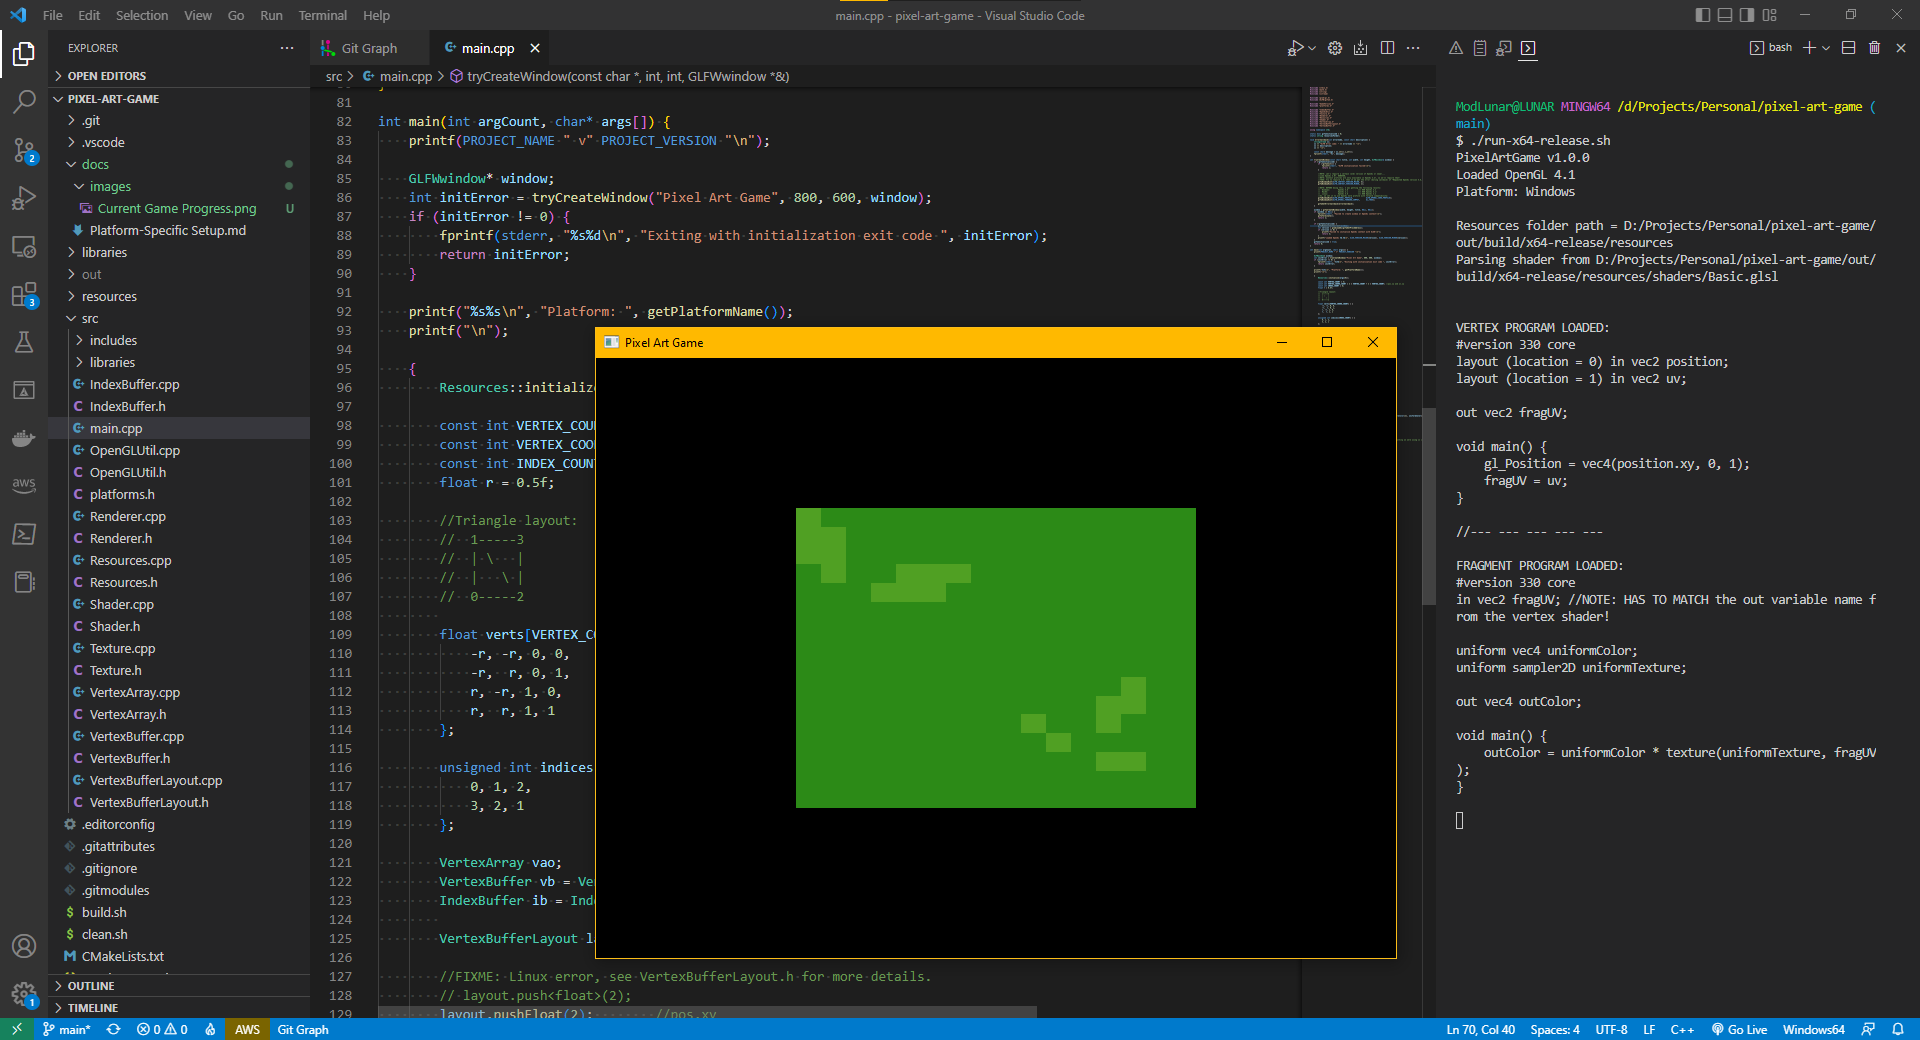
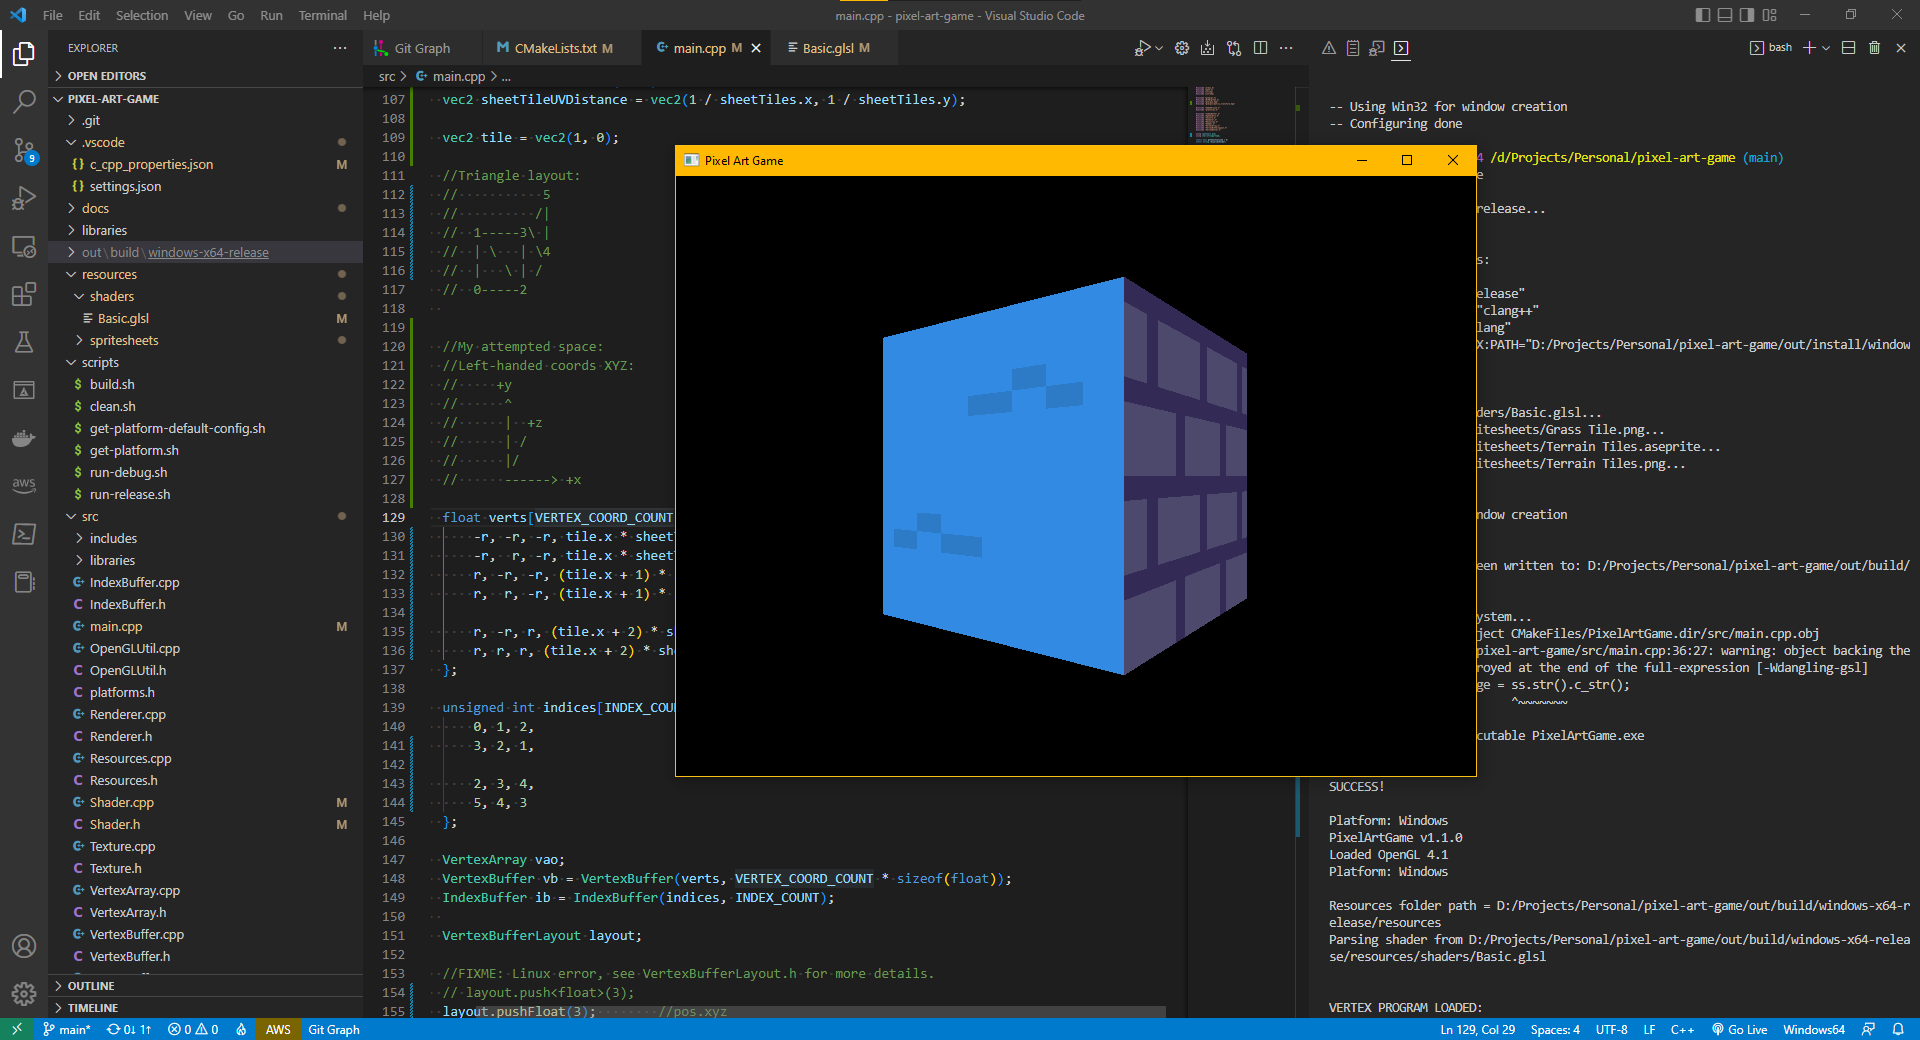
Massive improvements in trying to understand coordinate spaces

diff --git a/src/main.cpp b/src/main.cpp
@@ -5,6 +5,8 @@
 
 #include <glad/gl.h>
 #include <GLFW/glfw3.h>
+#include "glm/glm.hpp"
+#include "glm/gtc/matrix_transform.hpp"
 
 #include "GameVersion.h"
 #include "platforms.h"
@@ -19,7 +21,8 @@
 #include "VertexBufferLayout.h"
 #include "VertexBuffer.h"
 
-using namespace std;
+using namespace glm;
+using std::stringstream;
 
 static bool glfwInitialized = 0;
 static string resourcesFolder;
@@ -95,27 +98,50 @@ int main(int argCount, char* args[]) {
     {
         Resources::initialize(args[0]);
 
-        const int VERTEX_COUNT = 4;
-        const int VERTEX_COORD_COUNT = 2 * VERTEX_COUNT + 2 * VERTEX_COUNT; //pos.xy and uv.xy
-        const int INDEX_COUNT = 6;
+        const int VERTEX_COUNT = 6;
+        const int VERTEX_COORD_COUNT = 3 * VERTEX_COUNT + 2 * VERTEX_COUNT; //pos.xyz and uv.xy
+        const int INDEX_COUNT = 12;
         float r = 0.5f;
 
+        vec2 sheetTiles = vec2(8, 8);
+        vec2 sheetTileUVDistance = vec2(1 / sheetTiles.x, 1 / sheetTiles.y);
+
+        vec2 tile = vec2(1, 0);
+
         //Triangle layout:
-        //  1-----3
-        //  | \   |
-        //  |   \ |
+        //           5
+        //          /|
+        //  1-----3\ |
+        //  | \   | \4
+        //  |   \ | /
         //  0-----2
         
+
+        //My attempted space:
+        //Left-handed coords XYZ:
+        //     +y
+        //      ^
+        //      |  +z
+        //      | /
+        //      |/
+        //      ------> +x
+
         float verts[VERTEX_COORD_COUNT] = {
-            -r, -r, 0, 0,
-            -r,  r, 0, 1,
-            r, -r, 1, 0,
-            r,  r, 1, 1
+            -r, -r, -r, tile.x * sheetTileUVDistance.x, 1 - ((tile.y + 1) * sheetTileUVDistance.y),
+            -r,  r, -r, tile.x * sheetTileUVDistance.x, 1 - (tile.y * sheetTileUVDistance.y),
+            r, -r, -r, (tile.x + 1) * sheetTileUVDistance.x, 1 - ((tile.y + 1) * sheetTileUVDistance.y),
+            r,  r, -r, (tile.x + 1) * sheetTileUVDistance.x, 1 - (tile.y * sheetTileUVDistance.y),
+
+            r, -r, r, (tile.x + 2) * sheetTileUVDistance.x, 1 - ((tile.y + 1) * sheetTileUVDistance.y),
+            r, r, r, (tile.x + 2) * sheetTileUVDistance.x, 1 - (tile.y * sheetTileUVDistance.y)
         };
 
         unsigned int indices[INDEX_COUNT] = {
             0, 1, 2,
-            3, 2, 1
+            3, 2, 1,
+
+            2, 3, 4,
+            5, 4, 3
         };
 
         VertexArray vao;
@@ -125,18 +151,19 @@ int main(int argCount, char* args[]) {
         VertexBufferLayout layout;
 
         //FIXME: Linux error, see VertexBufferLayout.h for more details.
-        // layout.push<float>(2);
-        layout.pushFloat(2);        //pos.xy
-        layout.pushFloat(2);        //ux.xy
+        // layout.push<float>(3);
+        layout.pushFloat(3);        //pos.xyz
+        layout.pushFloat(2);        //uv.xy
 
         vao.addBuffer(vb, layout);
 
         Shader shader = Shader("resources/shaders/Basic.glsl");
-        Texture tex = Texture("resources/spritesheets/Grass Tile.png");
+        Texture tex = Texture("resources/spritesheets/Terrain Tiles.png");
 
         shader.bind();
         tex.bind(); //NOTE: Slot 0
         shader.setUniform1i("uniformTexture", 0); //NOTE: Corresponds to slot 0
+        shader.setUniform4f("uniformColor", 1, 1, 1, 1);
 
         //NOTE: VSYNC ON! Huge performance benefits..
         glfwSwapInterval(1);
@@ -153,16 +180,98 @@ int main(int argCount, char* args[]) {
         GLCall(glEnable(GL_BLEND));
         GLCall(glBlendFunc(GL_SRC_ALPHA, GL_ONE_MINUS_SRC_ALPHA));
 
-        float uniformColor[4] = { 0, 0, 1, 1 };
-        double prevTime = glfwGetTime();
-        while (!glfwWindowShouldClose(window)) {
-            double time = glfwGetTime();
-            double dt = time - prevTime;
+        GLCall(glEnable(GL_CULL_FACE));
+        GLCall(glCullFace(GL_BACK));
+        GLCall(glFrontFace(GL_CW));
 
-            uniformColor[0] = 0.5f * cos(time) + 0.5f;
-            uniformColor[1] = 0.5f * sin(time) + 0.5f;
+        int windowWidth;
+        int windowHeight;
+
+        enum class MovementMode {
+            Sprite = 0,
+            Camera = 1
+        };
+        MovementMode moveTarget = MovementMode::Sprite;
+        float timeLastSwitched = 0;
+        vec3 modelPosition = vec3(0, 0, 2);
+        vec3 cameraPosition = vec3(0);
+
+        float prevTime = glfwGetTime();
+        while (!glfwWindowShouldClose(window)) {
+            glfwGetWindowSize(window, &windowWidth, &windowHeight);
+
+            float time = glfwGetTime();
+            float dt = time - prevTime;
+
             shader.bind();
-            shader.setUniform4f("uniformColor", uniformColor[0], uniformColor[1], uniformColor[2], uniformColor[3]);
+
+
+            vec3 input = vec3(0);
+            if (glfwGetKey(window, GLFW_KEY_A) == GLFW_PRESS)
+                input.x--;
+            if (glfwGetKey(window, GLFW_KEY_D) == GLFW_PRESS)
+                input.x++;
+                
+            if (glfwGetKey(window, GLFW_KEY_S) == GLFW_PRESS)
+                input.y--;
+            if (glfwGetKey(window, GLFW_KEY_W) == GLFW_PRESS)
+                input.y++;
+
+            if (glfwGetKey(window, GLFW_KEY_Z) == GLFW_PRESS)
+                input.z--;
+            if (glfwGetKey(window, GLFW_KEY_X) == GLFW_PRESS)
+                input.z++;
+
+            if (glfwGetKey(window, GLFW_KEY_0) && time - timeLastSwitched > 1) {
+                moveTarget = (MovementMode) ((int) moveTarget + 1);
+                if ((int) moveTarget > 1)
+                    moveTarget = (MovementMode) 0;
+                timeLastSwitched = time;
+                printf("moveTarget = %d\n", moveTarget);
+            }
+
+            vec3 deltaPosition = r * 10 * dt * input;
+            switch (moveTarget) {
+                case MovementMode::Sprite:
+                    modelPosition += deltaPosition;
+                    break;
+                case MovementMode::Camera:
+                    cameraPosition += deltaPosition;
+                    break;
+            }
+
+            //NOTE: mat4(1) seems to be the identity matrix. I don't really understand their docs too well..
+            mat4 modelMatrix = mat4(1);            
+            modelMatrix = glm::translate(modelMatrix, modelPosition);
+            modelMatrix = glm::rotate(modelMatrix, (float) 2 * time, vec3(0, 1, 0));
+            
+            mat4 viewMatrix = mat4(1);
+            viewMatrix = glm::translate(viewMatrix, -cameraPosition);
+
+            mat4 projectionMatrix = //mat4(1);
+            // glm::ortho(
+            //     (float) -windowWidth / 2,
+            //     (float) windowWidth / 2,
+            //     (float) -windowHeight / 2,
+            //     (float) windowHeight / 2,
+            //     (float) 0.01f,
+            //     (float) 1000
+            // );
+
+            glm::perspective(
+                (float) glm::radians((float) 60),
+                (float) windowWidth / (float) windowHeight,
+                (float) 0.01f,
+                (float) 1000
+            );
+
+            //NOTE: Because NDC in OpenGL is [-1, 1] in XY axes,
+            //I set the ortho camera ranges to -1/2 to +1/2 of width and height to match.
+            //That way, a camera at the world origin, back some -Z units, will see objects at (0, 0, 0) in the center of the screen.
+
+            //NOTE: PVM ordering because of column-major matrices. It's weird.
+            mat4 mvp = projectionMatrix * viewMatrix * modelMatrix;
+            shader.setUniformMatrix4fv("uniformMVP", mvp);
             
             ib.bind();
 

diff --git a/src/Shader.cpp b/src/Shader.cpp
@@ -34,14 +34,19 @@ void Shader::unbind() const {
     GLCall(glUseProgram(0));
 }
 
+void Shader::setUniform1i(const string& name, int x) {
+    GLCall(int id = glGetUniformLocation(rendererId, name.c_str()));
+    GLCall(glUniform1i(id, x));
+}
+
 void Shader::setUniform4f(const string& name, float x, float y, float z, float w) {
     GLCall(int id = glGetUniformLocation(rendererId, name.c_str()));
     GLCall(glUniform4f(id, x, y, z, w));
 }
 
-void Shader::setUniform1i(const string& name, int x) {
+void Shader::setUniformMatrix4fv(const string& name, mat4& matrix) {
     GLCall(int id = glGetUniformLocation(rendererId, name.c_str()));
-    GLCall(glUniform1i(id, x));
+    GLCall(glUniformMatrix4fv(id, 1, false, &matrix[0][0]));
 }
 
 ShaderProgramSource Shader::parseShader(const string& filePath) {

diff --git a/src/Shader.h b/src/Shader.h
@@ -1,7 +1,9 @@
 #pragma once
 
 #include <string>
+#include "glm/glm.hpp"
 
+using namespace glm;
 using std::string;
 
 struct ShaderProgramSource {
@@ -19,8 +21,9 @@ class Shader {
         ~Shader();
         void bind() const;
         void unbind() const;
-        void setUniform4f(const string& name, float x, float y, float z, float w);
         void setUniform1i(const string& name, int x);
+        void setUniform4f(const string& name, float x, float y, float z, float w);
+        void setUniformMatrix4fv(const string& name, mat4& matrix);
 
     private:
         unsigned int getUniformId(const string& name);
